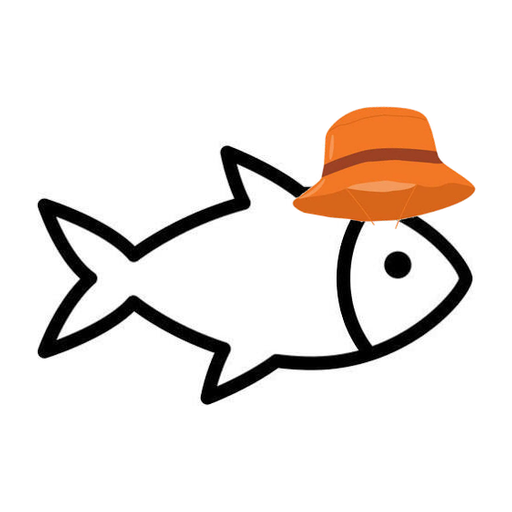
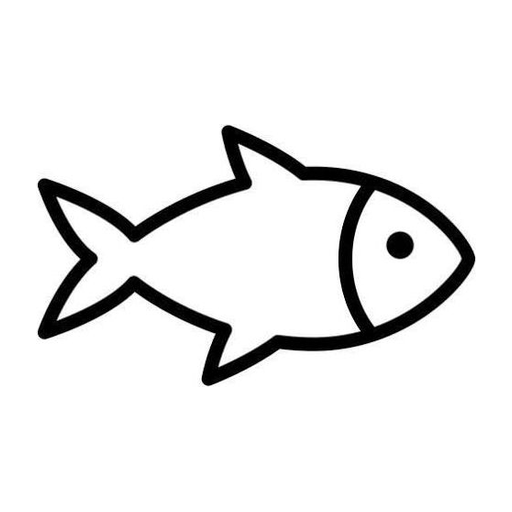
Fisher is the plain fish, no hat

Changed region(s): [[0.0625, 0.1875, 0.9375, 0.8125]]

diff --git a/src/components/brand/fisher-avatar.tsx b/src/components/brand/fisher-avatar.tsx
@@ -1,6 +1,6 @@
 import { cn } from "@/lib/utils";
 
-// Fisher, the marketing helper: the line-drawn fish in the orange bucket hat.
+// Fisher, the marketing helper: a plain line-drawn fish.
 // The picture lives in public/brand/fisher.png.
 export function FisherAvatar({ size = 32, className }: { size?: number; className?: string }) {
   return (
